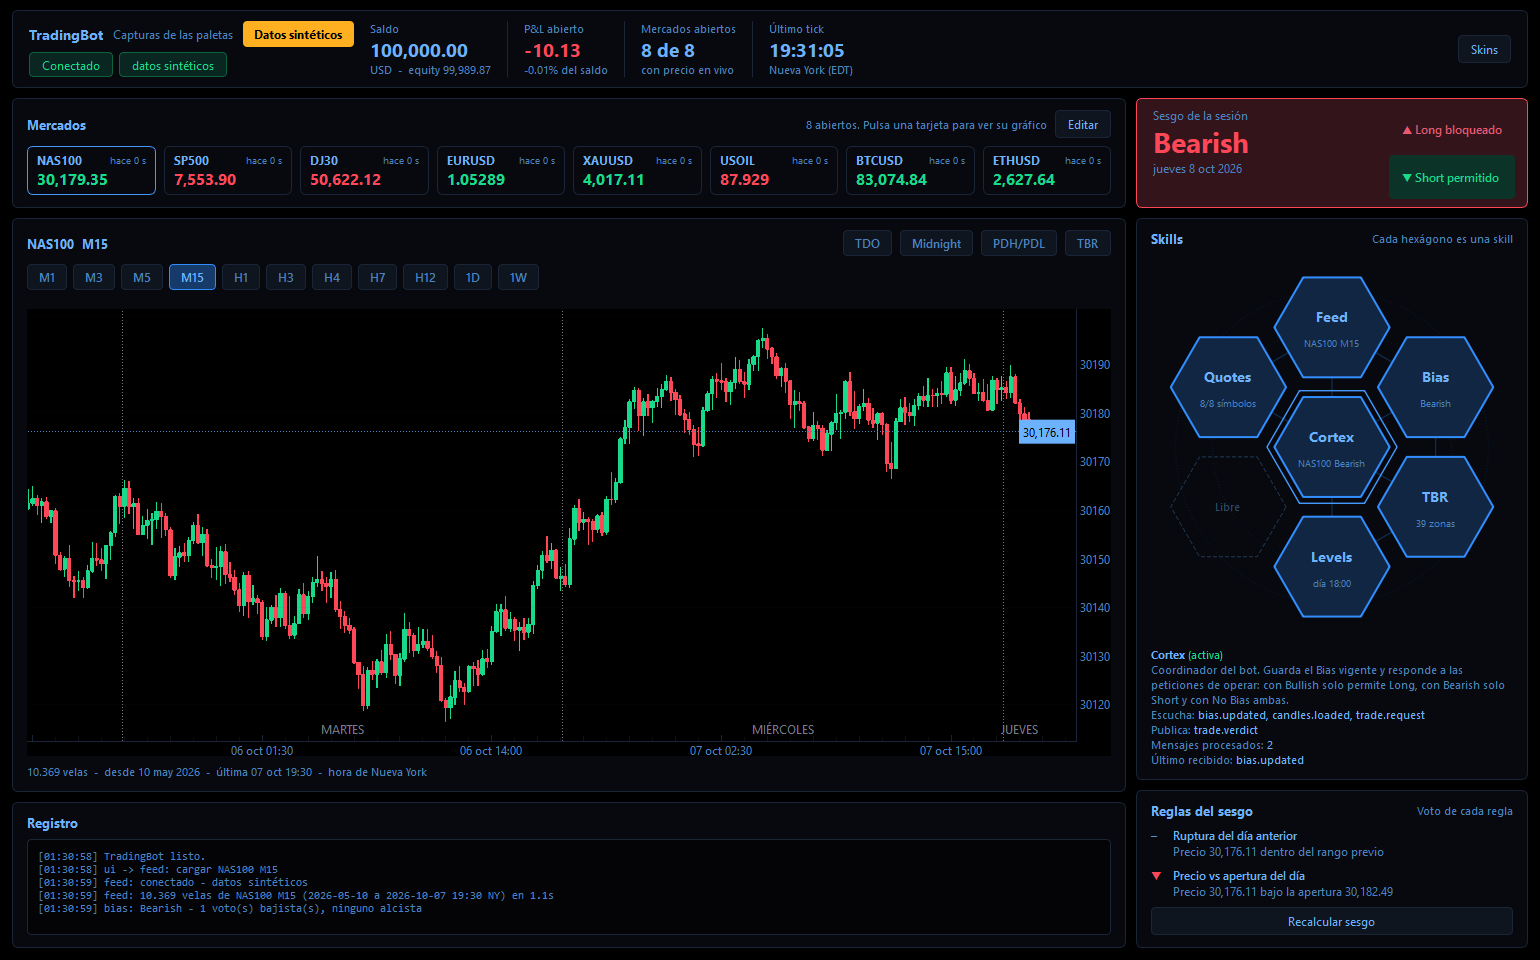
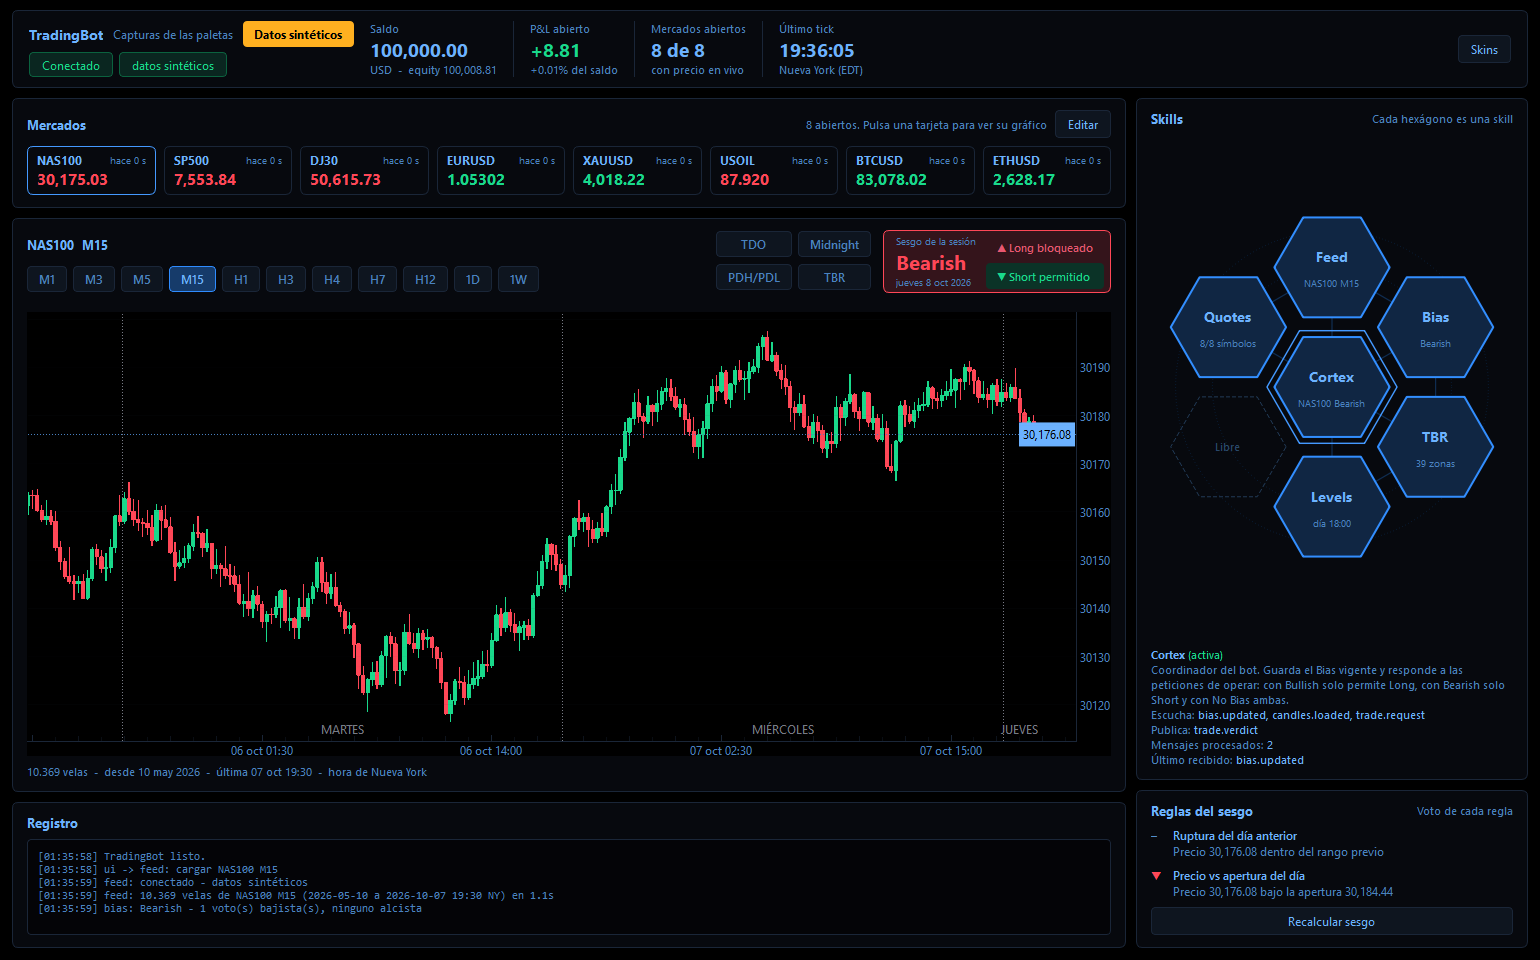
Sesgo integrado en la cabecera del gráfico y botones de niveles en 2x2
- El panel Sesgo de la sesión pasa a la cabecera del gráfico, compacto
  (mismo contenido: sesgo, fecha y Long / Short) y a la altura del título
  más la fila de timeframes.
- Los botones TDO, Midnight, PDH/PDL y TBR forman una matriz 2x2 a su
  izquierda.
- El panel Skills ocupa toda la columna derecha con el espacio liberado.
- README y capturas actualizados.

diff --git a/tradingbot/ui/main_window.py b/tradingbot/ui/main_window.py
@@ -8,8 +8,8 @@ from __future__ import annotations
 from datetime import datetime, timezone
 
 from PySide6.QtCore import Qt, Signal
-from PySide6.QtWidgets import (QApplication, QButtonGroup, QFrame, QHBoxLayout, QLabel, QMainWindow, QPlainTextEdit,
-                               QProgressBar, QPushButton, QVBoxLayout, QWidget)
+from PySide6.QtWidgets import (QApplication, QButtonGroup, QFrame, QGridLayout, QHBoxLayout, QLabel, QMainWindow,
+                               QPlainTextEdit, QProgressBar, QPushButton, QVBoxLayout, QWidget)
 
 from ..skills.bias import BiasResult
 from ..clock import format_offset, ny_from_server, server_minus_ny
@@ -196,9 +196,7 @@ class MainWindow(QMainWindow):
             btn.setProperty("tip", tip)
             btn.setVisible(levels_skill is not None)
             btn.setChecked(levels_skill is not None and levels_skill.settings.get_bool(key, False))
-            chart_panel.add_header_widget(btn)
             self.level_btns[group] = btn
-        chart_panel.add_header_widget(self.tbr_btn)
         tools = QHBoxLayout()
         tools.setSpacing(6)
         self.tf_group = QButtonGroup(self)
@@ -216,7 +214,26 @@ class MainWindow(QMainWindow):
         self.progress_label = QLabel("")
         self.progress_label.setObjectName("Muted")
         tools.addWidget(self.progress_label)
-        chart_panel.body.addLayout(tools)
+
+        # Cabecera del gráfico: título y timeframes | botones de niveles en 2x2 | sesgo de la sesión (compacto)
+        chart_panel.layout().removeItem(chart_panel.head)      # el título pasa a la columna de la izquierda
+        top = QHBoxLayout()
+        top.setSpacing(12)
+        left_col = QVBoxLayout()
+        left_col.setSpacing(6)
+        left_col.addWidget(chart_panel.title)
+        left_col.addLayout(tools)
+        top.addLayout(left_col, 1)
+        grid = QGridLayout()
+        grid.setHorizontalSpacing(6)
+        grid.setVerticalSpacing(6)
+        for i, btn in enumerate((self.level_btns["tdo"], self.level_btns["midnight"],
+                                 self.level_btns["pdhl"], self.tbr_btn)):
+            grid.addWidget(btn, i // 2, i % 2)
+        top.addLayout(grid)
+        self.bias_card = BiasCard()
+        top.addWidget(self.bias_card)
+        chart_panel.body.addLayout(top)
         self.progress = QProgressBar()
         self.progress.setTextVisible(False)
         self.progress.setRange(0, 1)
@@ -254,9 +271,6 @@ class MainWindow(QMainWindow):
         col.setContentsMargins(0, 0, 0, 0)
         col.setSpacing(10)
 
-        self.bias_card = BiasCard()
-        col.addWidget(self.bias_card)
-
         skills = Panel("Skills", "Cada hexágono es una skill")
         self.ring = RingView()
         skills.body.addWidget(self.ring, 1)
@@ -279,10 +293,8 @@ class MainWindow(QMainWindow):
 
     # -- utilidades -----------------------------------------------------------------------------
     def _sync_top_heights(self) -> None:
-        """Mercados y Sesgo, con la altura justa y la misma: el resto va al gráfico y al panel Skills."""
-        h = max(self.markets_panel.sizeHint().height(), self.bias_card.sizeHint().height())
-        self.markets_panel.setFixedHeight(h)
-        self.bias_card.setFixedHeight(h)
+        """Mercados, con la altura justa para sus tarjetas: el resto va al gráfico."""
+        self.markets_panel.setFixedHeight(self.markets_panel.sizeHint().height())
 
     def log(self, message: str) -> None:
         self.log_view.appendPlainText(f"[{datetime.now():%H:%M:%S}] {message}")

diff --git a/tradingbot/ui/theme.py b/tradingbot/ui/theme.py
@@ -297,13 +297,13 @@ QFrame#BiasCard {{ border-radius: 6px; border: 1px solid {BORDER}; background: {
 QFrame#BiasCard[state="bull"] {{ background: {mix(PANEL, BULL, 0.18)}; border: 1px solid {BULL}; }}
 QFrame#BiasCard[state="bear"] {{ background: {mix(PANEL, BEAR, 0.18)}; border: 1px solid {BEAR}; }}
 QFrame#BiasCard[state="none"] {{ background: {PANEL_ALT}; border: 1px solid {MUTED}; }}
-QLabel#BiasCaption {{ color: {MUTED}; font-size: 12px; background: transparent; }}
-QLabel#BiasValue {{ font-size: 28px; font-weight: 800; background: transparent; color: {NEUTRAL}; }}
+QLabel#BiasCaption {{ color: {MUTED}; font-size: 10px; background: transparent; }}
+QLabel#BiasValue {{ font-size: 20px; font-weight: 800; background: transparent; color: {NEUTRAL}; }}
 QFrame#BiasCard[state="bull"] QLabel#BiasValue {{ color: {BULL}; }}
 QFrame#BiasCard[state="bear"] QLabel#BiasValue {{ color: {BEAR}; }}
-QLabel#BiasDetail {{ color: {MUTED}; background: transparent; }}
+QLabel#BiasDetail {{ color: {MUTED}; font-size: 10px; background: transparent; }}
 
-QLabel#Chip {{ border-radius: 4px; padding: 4px 10px; font-weight: 600; background: {mix(PANEL, TEXT, 0.06)}; color: {MUTED}; }}
+QLabel#Chip {{ border-radius: 4px; padding: 2px 8px; font-size: 11px; font-weight: 600; background: {mix(PANEL, TEXT, 0.06)}; color: {MUTED}; }}
 QLabel#Chip[allowed="true"] {{ background: {mix(PANEL, BULL, 0.20)}; color: {BULL}; }}
 QLabel#Chip[allowed="false"] {{ background: {mix(PANEL, BEAR, 0.18)}; color: {mix(BEAR, TEXT, 0.15)}; }}
 

diff --git a/tradingbot/ui/widgets.py b/tradingbot/ui/widgets.py
@@ -211,10 +211,10 @@ class BiasCard(QFrame):
         super().__init__()
         self.setObjectName("BiasCard")
         self.setProperty("state", "idle")
-        # Compacto, a la altura del panel Mercados: sesgo a la izquierda y chips Long / Short a la derecha.
+        # Compacto, dentro de la cabecera del gráfico: sesgo a la izquierda y chips Long / Short a la derecha.
         lay = QHBoxLayout(self)
-        lay.setContentsMargins(16, 8, 12, 8)
-        lay.setSpacing(12)
+        lay.setContentsMargins(12, 3, 6, 3)
+        lay.setSpacing(10)
         text = QVBoxLayout()
         text.setSpacing(0)
 
@@ -227,7 +227,7 @@ class BiasCard(QFrame):
         self.detail.setWordWrap(True)
 
         chips = QVBoxLayout()
-        chips.setSpacing(4)
+        chips.setSpacing(3)
         self.long_chip = ClickableLabel("Long")
         self.short_chip = ClickableLabel("Short")
         for chip, direction in ((self.long_chip, Direction.LONG), (self.short_chip, Direction.SHORT)):

diff --git a/README.md b/README.md
@@ -9,7 +9,7 @@ tarjetas de mercado, gráfico de velas verde azulado/coral y, a la derecha, el s
 | Tarea | Qué hace |
 |---|---|
 | Conexión y velas | Conecta con MT5 usando la cuenta del `.env` y carga todas las velas posibles en 1m, 3m, 5m o 15m (por defecto 15m). |
-| Bias | Evalúa las reglas y decide el sesgo del día: **Bullish**, **Bearish** o **No Bias**. Se muestra en un recuadro fijo de la interfaz. |
+| Bias | Evalúa las reglas y decide el sesgo del día: **Bullish**, **Bearish** o **No Bias**. Se muestra en un recuadro compacto en la cabecera del gráfico, a la derecha de los botones TDO, Midnight, PDH/PDL y TBR (en una matriz 2x2). |
 
 Cabecera: estado de la conexión y cuenta; a continuación, saldo/equity, P&L abierto, mercados con precio en vivo y hora del último tick
 **en hora de Nueva York**. MT5 entrega los ticks en la hora del servidor de tu broker; el bot mide el desfase de ese
